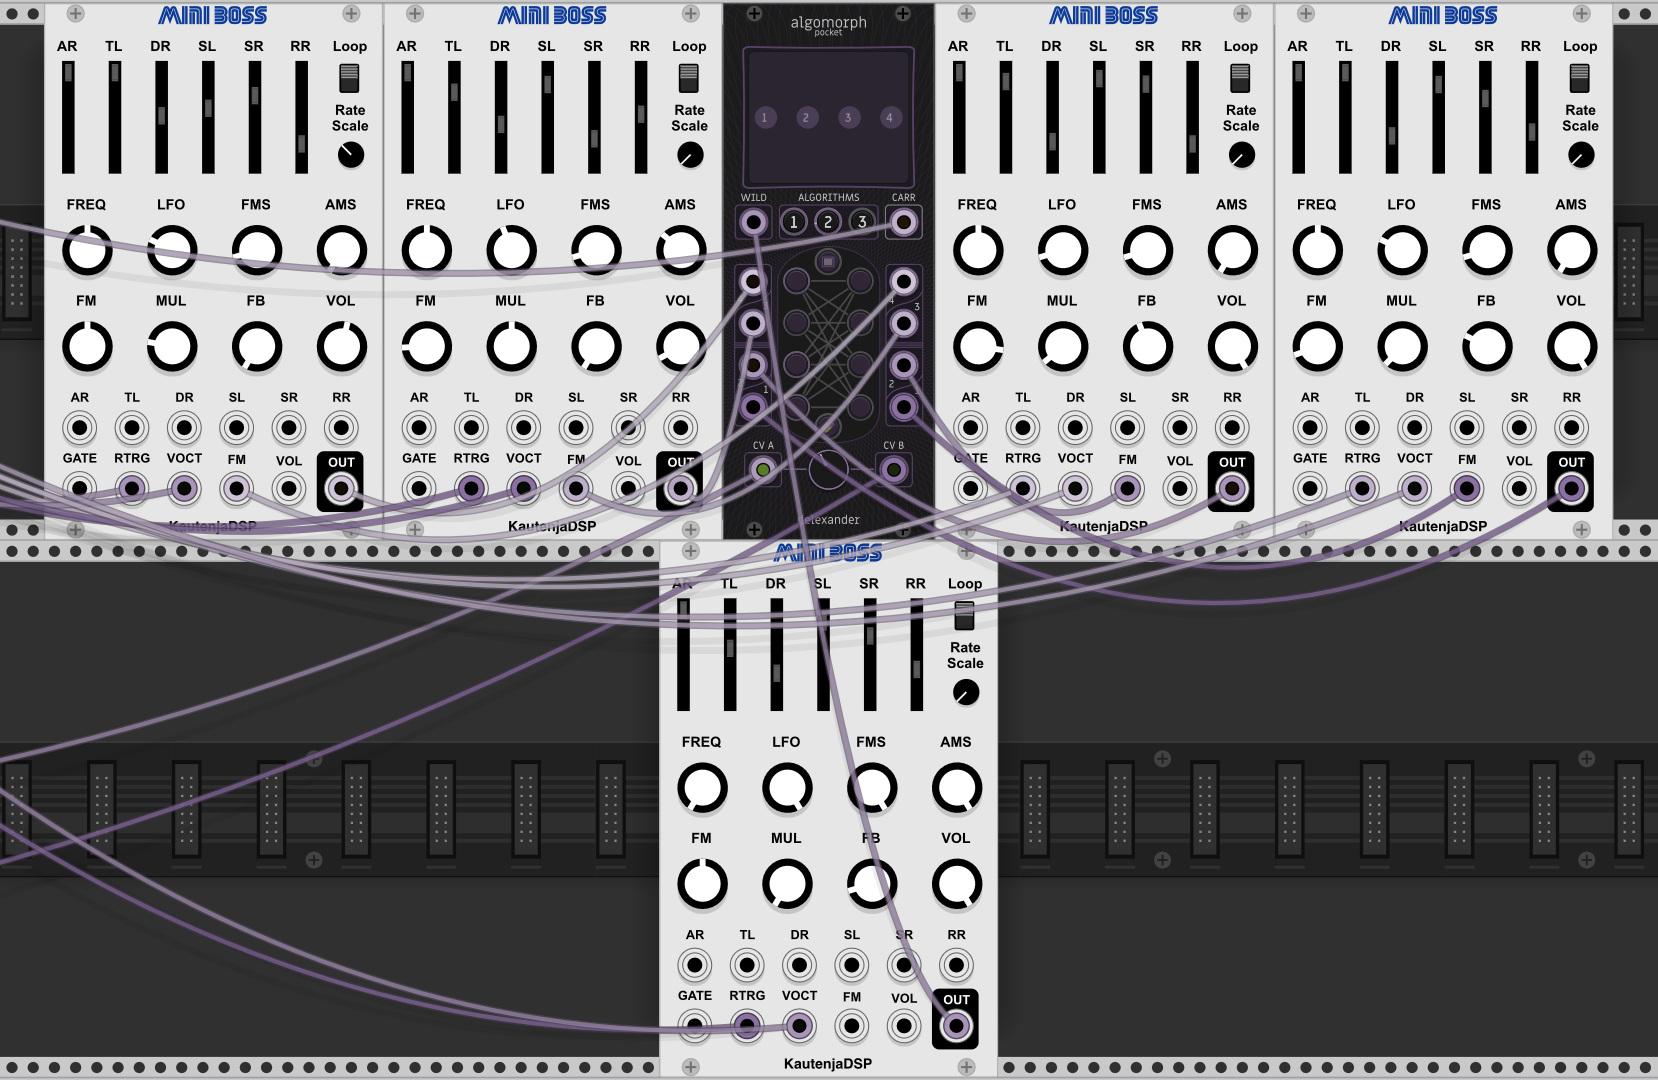
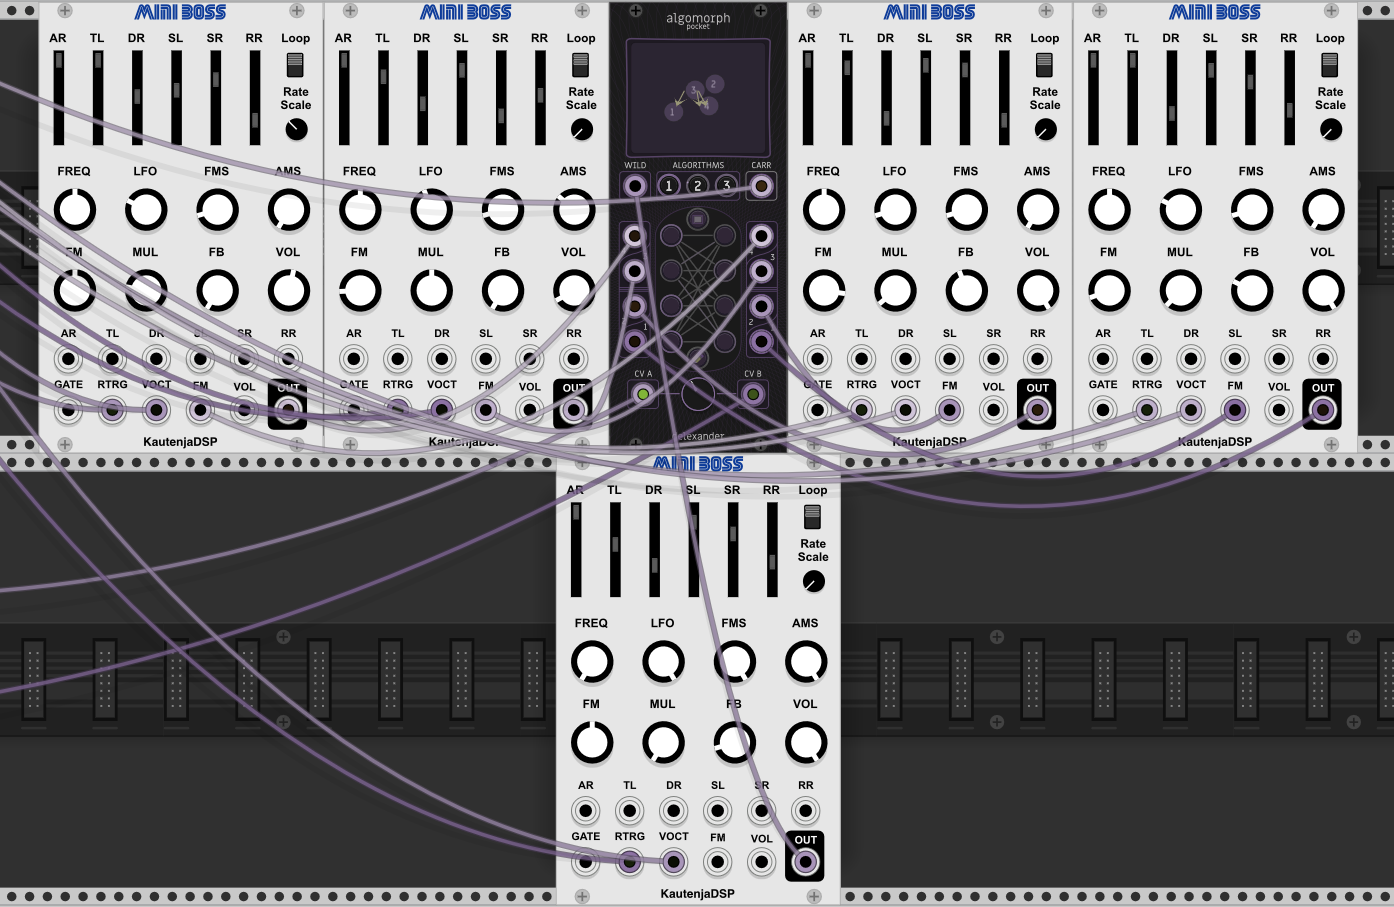
Update README.md, update screenshot

diff --git a/README.md b/README.md
@@ -5,7 +5,7 @@ Algomorph is an intelligent signal router, building from the familiar concepts o
 
 Algomorph is capable of storing three independent routing states (i.e. algorithms) and crossfading between them. Crossfading can be controlled both manually and via control voltage, including at audio rates.
 
-Algomorph includes a visualizer which displays the current algorithm as a directed graph. The graph visualizations consist of pre-rendered vector graphics which can be linearly crossfaded between at run-time. The vector graphics are generated using a combination of manual dot-language enumeration of the problem space (1979 graphs)<sup>1</sup>, rendering to SVG via [GraphViz](https://graphviz.org/), conversion to CSV with [Beautiful Soup](https://www.crummy.com/software/BeautifulSoup/), and finally formatting as a series of arrays.
+Algomorph includes a visualizer which displays the current algorithm as a directed graph. The graph visualizations consist of pre-rendered vector graphics which can be linearly crossfaded between at run-time. The vector graphics are generated using a combination of manual dot-language enumeration of the problem space (1979 graphs)<sup>1</sup>, rendering to SVG via [GraphViz](https://graphviz.org/), conversion to CSV with [Beautiful Soup](https://www.crummy.com/software/BeautifulSoup/), and finally formatting as [a series of arrays](<src/GraphData.hpp>).
 
 Algomorph features five user-assignable CV/trigger/audio inputs with 20+ possible modes<sup>2</sup> as well as built-in preset configurations. There are two sum audio outputs, one delivering all carriers and the other all modulators, as determined according to the current algorithm and morph-state once per sample.
 
@@ -74,14 +74,16 @@ There is additionally an "Alter Ego" mode of operation, which makes has two sign
 * Operators can be routed horizontally. Making horizontal connections does not disable operators here.
 * Automatic carrier assignment does not occur. The only operators which are routed to the Sum output are those which are forcible marked as carriers by the user (see instructions above).
 
-Note: while the expected CV range is scaled around +/- 5V, the morph CV inputs will actually accept "unlimited" voltage in either the positive or negative direction. At standard morph strength, 15V is equivalent to 0V. At triple morph strength, -5V = 0V = 5V. Try feeding a +/- 5V LFO into triple strength Morph CV while also feeding 5V into triple strength Morph CV Ampliversion; this results in 9x strength, which creates particularly wild circular morphing. For further exploration into these depths, bear in mind that multiple Morph CV inputs always stack additively, and multiple Morph CV Attenuversion/Ampliversion inputs stack multiplicatively.
+Note: while the expected CV range at Algomorph's Morph inputs is scaled around +/- 5V, these inputs will actually accept "unlimited" voltage in either the positive or negative direction. At standard morph strength, 15V is equivalent to 0V. At triple morph strength, -5V = 0V = 5V. Try feeding a +/- 5V LFO into triple strength Morph CV while also feeding 5V into triple strength Morph CV Ampliversion; this results in 9x strength, which creates particularly wild circular morphing.
 
-All auxiliary knob modes, as well as both states of the Algomorph Pocket knob, are independently and simultaneously MIDI- and CV-mappable using modules like:
+For further exploration into these depths, bear in mind that multiple Morph CV inputs (or knobs) always stack additively, and multiple Morph CV Attenuversion/Ampliversion inputs (or knobs) stack multiplicatively.
+
+All auxiliary knob modes, as well as both states of the Algomorph Pocket knob, retain their value even when not visible. They are also independently and simultaneously MIDI- and CV-mappable using modules like:
 * VCV [MIDI-MAP](https://library.vcvrack.com/Core/MIDI-Map)
-* stoermelder [CV-MAP](https://library.vcvrack.com/Stoermelder-P1/CVMap)/[µMAP](https://library.vcvrack.com/Stoermelder-P1/CVMapMicro)
+* stoermelder [CV-MAP](https://library.vcvrack.com/Stoermelder-P1/CVMap)/[µMAP](https://library.vcvrack.com/Stoermelder-P1/CVMapMicro), [MACRO](https://library.vcvrack.com/Stoermelder-P1/Macro), [TRANSIT](https://library.vcvrack.com/Stoermelder-P1/Transit), and [X4](https:/library.vcvrack.com/Stoermelder-P1/X4)
 * 23volts [Multimap](https://library.vcvrack.com/23volts/MultimapK)
 
-Algomorph and Algomorph Pocket are also 16-channel polyphonic, however the code has not (yet) been optimized for this use-case; expect significant CPU usage.
+Algomorph and Algomorph Pocket are also 16-channel polyphonic, however the code has not (yet) been optimized for this use-case; expect significant CPU usage, especially if the operator modules in-use are also not optimized for polyphony.
 
 ![Full Example Patch](res/Algomorph_FullPatchImage.png)
 
